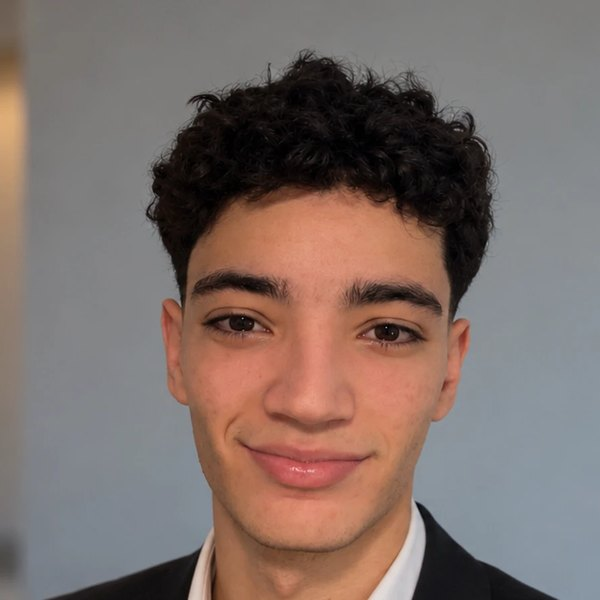
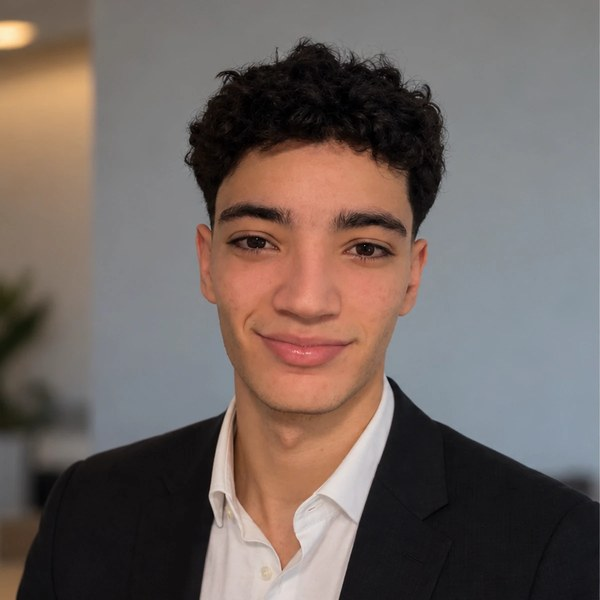
Full uncropped photo; written reviews + onboarding clips sections (clips hidden until clips.json)

diff --git a/index.html b/index.html
@@ -131,6 +131,19 @@
   @keyframes up { to { opacity: 1; transform: none; } }
   @media (prefers-reduced-motion: reduce) { .card, .me::before { animation: none; opacity: 1; transform: none; } }
 
+  /* sections */
+  .sec { display: flex; align-items: baseline; justify-content: space-between; gap: 12px; flex-wrap: wrap; padding: 26px 0 4px; }
+  .sec h2 { margin: 0; font: 600 clamp(22px, 3vw, 30px)/1.2 Lora, Georgia, serif; }
+  .sec p { margin: 0; color: var(--muted); font-size: 14px; }
+  .clips { display: grid; grid-template-columns: repeat(auto-fill, minmax(300px, 1fr)); gap: 20px; padding: 14px 0 40px; }
+  .clip { background: var(--card); border: 1px solid var(--line); border-radius: 18px; overflow: hidden; box-shadow: var(--shadow); }
+  .clip video { display: block; width: 100%; aspect-ratio: 16 / 9; background: #111; object-fit: contain; }
+  .clip .cap { padding: 14px 18px 16px; }
+  .clip q { display: block; quotes: none; font: 500 16px/1.5 Lora, Georgia, serif; }
+  .clip q mark { font-weight: 600; }
+  .clip small { display: block; margin-top: 8px; font-size: 12px; color: var(--muted); }
+  .clip small b { color: var(--ink); font-weight: 600; }
+
   .foot { text-align: center; padding: 10px 0 56px; }
   .foot p { margin: 0 0 6px; font: 500 22px/1.3 Lora, Georgia, serif; }
   .foot small { color: var(--muted); font-size: 12px; }
@@ -189,6 +202,10 @@
   </section>
 </div>
 
+<div class="wrap">
+  <div class="sec"><h2>✍ Written reviews</h2><p id="wcount">Every review that names Mo.</p></div>
+</div>
+
 <nav class="bar" aria-label="Filter reviews">
   <div class="wrap">
     <div class="chips" id="sources"></div>
@@ -201,6 +218,14 @@
 
 <div class="wrap">
   <main class="grid" id="grid"><p class="empty">Loading reviews…</p></main>
+</div>
+
+<div class="wrap" id="clipsSec" hidden>
+  <div class="sec"><h2>🎥 Clips from the onboarding calls</h2><p>Real moments, straight from the call recordings.</p></div>
+  <div class="clips" id="clips"></div>
+</div>
+
+<div class="wrap">
   <footer class="foot">
     <p>See you on the call 👋</p>
     <small id="updated"></small>
@@ -400,6 +425,24 @@
       t = setTimeout(() => { if (columnCount() !== last) { last = columnCount(); render(); } }, 150);
     });
   }
+
+  // 🎥 onboarding clips: clips.json lists them; no file = the section stays hidden
+  fetch("clips.json", { cache: "no-cache" })
+    .then((r) => (r.ok ? r.json() : []))
+    .then((list) => {
+      if (!Array.isArray(list) || !list.length) return;
+      const box = document.getElementById("clips");
+      box.innerHTML = list.map((c) => `
+        <figure class="clip" style="margin:0">
+          <video src="${esc(c.src)}" poster="${esc(c.poster || "")}" controls playsinline preload="none"></video>
+          <figcaption class="cap"><q>“${esc(c.quote).replace(NAME, (m) => `<mark>${m}</mark>`)}”</q>
+          <small><b>${esc(c.name)}</b> · onboarding call · ${esc(fmtDate(c.date))}</small></figcaption>
+        </figure>`).join("");
+      // one clip plays at a time
+      box.addEventListener("play", (e) => box.querySelectorAll("video").forEach((v) => v !== e.target && v.pause()), true);
+      document.getElementById("clipsSec").hidden = false;
+    })
+    .catch(() => {});
 
   fetch("reviews.json", { cache: "no-cache" })
     .then((r) => r.json())
